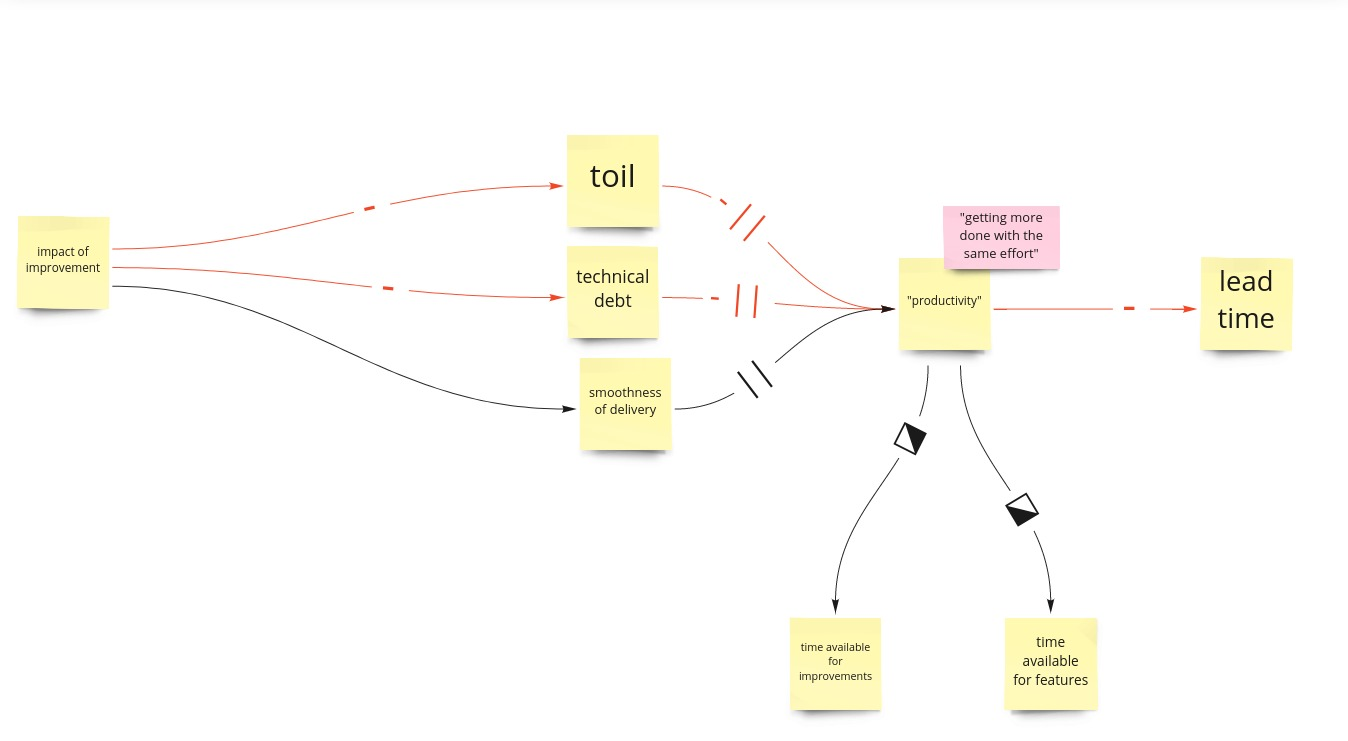
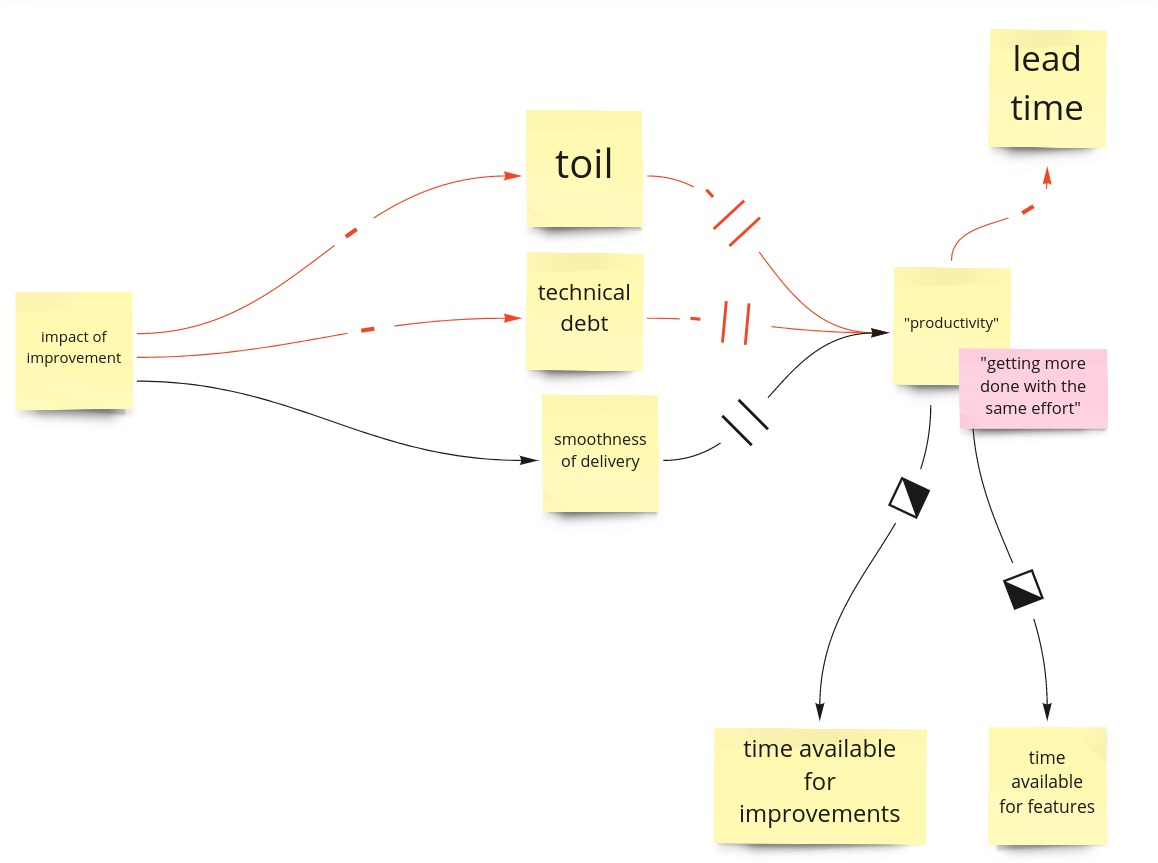
DoEs gefixt

diff --git a/_drafts/simple-acts-of-kindness-and-love.md b/_drafts/simple-acts-of-kindness-and-love.md
@@ -81,6 +81,8 @@ Let's illustrate this using a diagram of effects.
 The impact of improvements might be small, but they do have impact. They reduce
 developer toil for instance, or reduce technical debt, or make the whole
 delivery process a bit more smooth. Over time, this helps improve productivity.
+The time delay is denoted by the || symbol.
+
 Now productivity in development is difficult to get a grip on, like we wrote
 before in our [Under Pressure post](/2020/10/26/under-pressure.html). Here we
 mean "getting more done with the same effort" (or "getting the same done with
